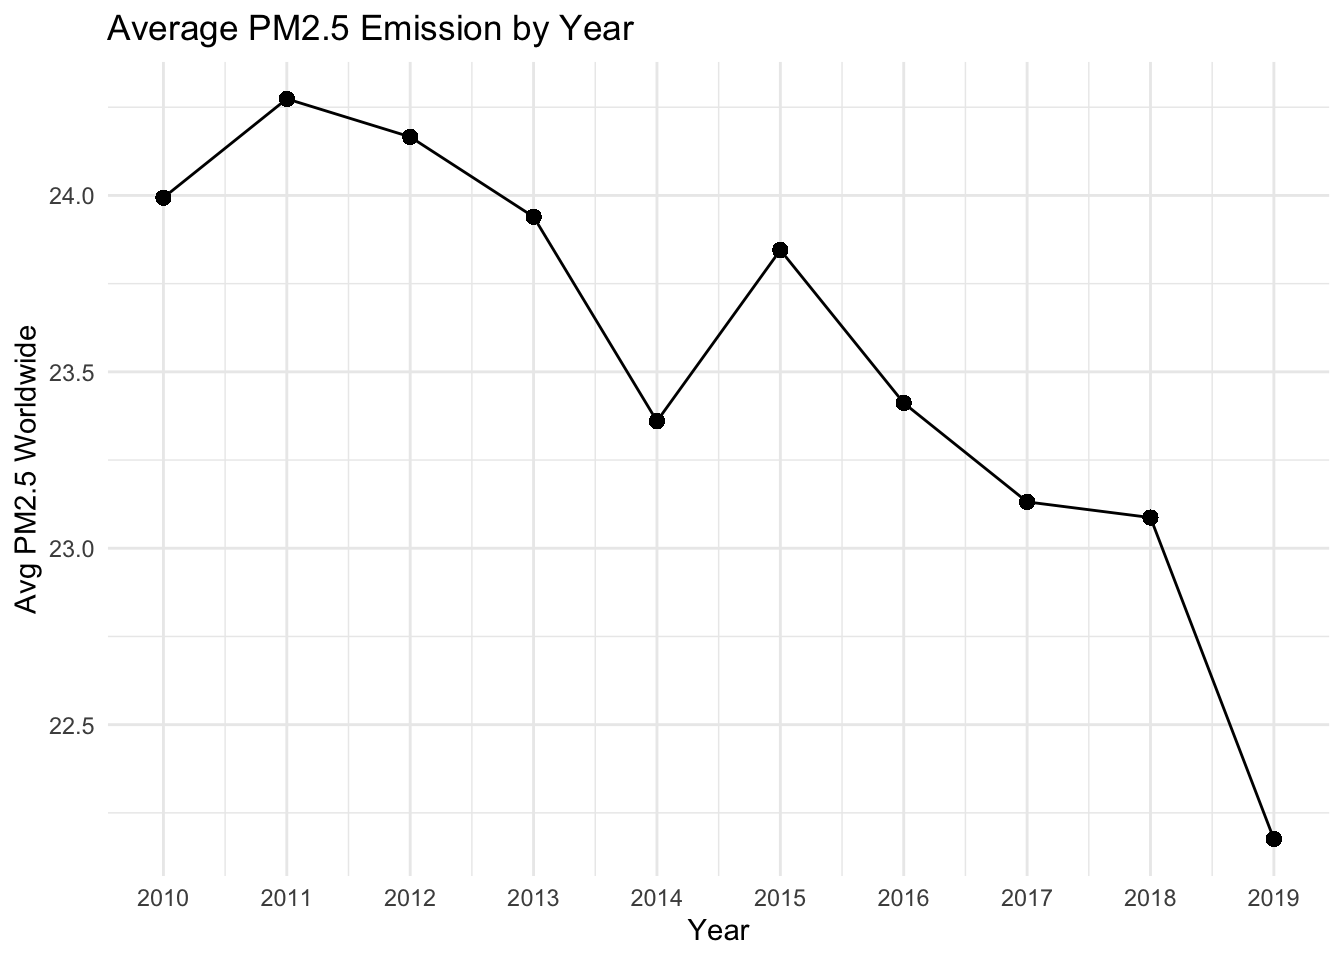
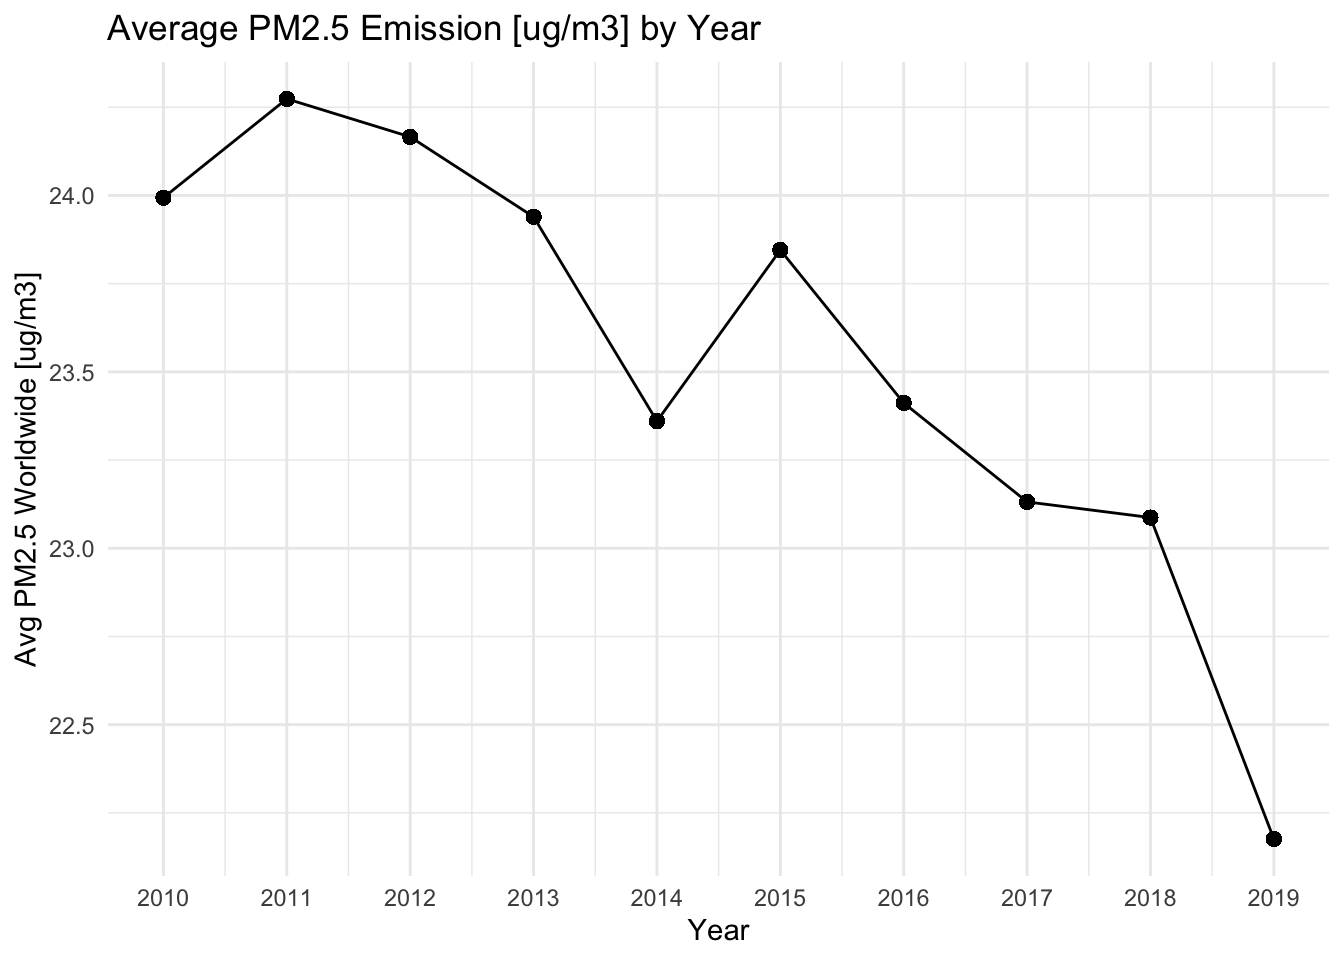
.

Changed region(s): [[0.0, 0.2812, 0.0312, 0.6875], [0.375, 0.0, 0.5625, 0.0625]]

diff --git a/docs/results.html b/docs/results.html
@@ -235,9 +235,9 @@ Attaching package: 'dplyr'</code></pre>
 <span id="cb6-6"><a href="#cb6-6" aria-hidden="true" tabindex="-1"></a>  <span class="fu">geom_line</span>() <span class="sc">+</span></span>
 <span id="cb6-7"><a href="#cb6-7" aria-hidden="true" tabindex="-1"></a>  <span class="fu">geom_point</span>(<span class="at">size =</span> <span class="dv">2</span>) <span class="sc">+</span></span>
 <span id="cb6-8"><a href="#cb6-8" aria-hidden="true" tabindex="-1"></a>  <span class="fu">theme_minimal</span>() <span class="sc">+</span></span>
-<span id="cb6-9"><a href="#cb6-9" aria-hidden="true" tabindex="-1"></a>  <span class="fu">labs</span>(<span class="at">title =</span> <span class="st">"Average PM2.5 Emission by Year"</span>,</span>
+<span id="cb6-9"><a href="#cb6-9" aria-hidden="true" tabindex="-1"></a>  <span class="fu">labs</span>(<span class="at">title =</span> <span class="st">"Average PM2.5 Emission [ug/m3] by Year"</span>,</span>
 <span id="cb6-10"><a href="#cb6-10" aria-hidden="true" tabindex="-1"></a>       <span class="at">x =</span> <span class="st">"Year"</span>,</span>
-<span id="cb6-11"><a href="#cb6-11" aria-hidden="true" tabindex="-1"></a>       <span class="at">y =</span> <span class="st">"Avg PM2.5 Worldwide"</span>) <span class="sc">+</span></span>
+<span id="cb6-11"><a href="#cb6-11" aria-hidden="true" tabindex="-1"></a>       <span class="at">y =</span> <span class="st">"Avg PM2.5 Worldwide [ug/m3]"</span>) <span class="sc">+</span></span>
 <span id="cb6-12"><a href="#cb6-12" aria-hidden="true" tabindex="-1"></a>   <span class="fu">scale_x_continuous</span>(<span class="at">breaks =</span> <span class="fu">seq</span>(<span class="fu">min</span>(data<span class="sc">$</span>Period), <span class="fu">max</span>(data<span class="sc">$</span>Period), <span class="at">by =</span> <span class="dv">1</span>))</span></code><button title="Copy to Clipboard" class="code-copy-button"><i class="bi"></i></button></pre></div>
 </details>
 <div class="cell-output-display">
@@ -260,9 +260,9 @@ Attaching package: 'dplyr'</code></pre>
 <span id="cb7-7"><a href="#cb7-7" aria-hidden="true" tabindex="-1"></a>  <span class="fu">geom_line</span>() <span class="sc">+</span></span>
 <span id="cb7-8"><a href="#cb7-8" aria-hidden="true" tabindex="-1"></a>  <span class="fu">geom_point</span>(<span class="at">size =</span> <span class="dv">1</span>) <span class="sc">+</span></span>
 <span id="cb7-9"><a href="#cb7-9" aria-hidden="true" tabindex="-1"></a>  <span class="fu">theme_minimal</span>() <span class="sc">+</span></span>
-<span id="cb7-10"><a href="#cb7-10" aria-hidden="true" tabindex="-1"></a>  <span class="fu">labs</span>(<span class="at">title =</span> <span class="st">"Average PM2.5 Emission by Year"</span>,</span>
+<span id="cb7-10"><a href="#cb7-10" aria-hidden="true" tabindex="-1"></a>  <span class="fu">labs</span>(<span class="at">title =</span> <span class="st">"Average PM2.5 Emission [ug/m3] by Year"</span>,</span>
 <span id="cb7-11"><a href="#cb7-11" aria-hidden="true" tabindex="-1"></a>       <span class="at">x =</span> <span class="st">"Year"</span>,</span>
-<span id="cb7-12"><a href="#cb7-12" aria-hidden="true" tabindex="-1"></a>       <span class="at">y =</span> <span class="st">"Avg PM2.5 per Continent"</span>) <span class="sc">+</span></span>
+<span id="cb7-12"><a href="#cb7-12" aria-hidden="true" tabindex="-1"></a>       <span class="at">y =</span> <span class="st">"Avg PM2.5 Concentration [ug/m3] per Continent"</span>) <span class="sc">+</span></span>
 <span id="cb7-13"><a href="#cb7-13" aria-hidden="true" tabindex="-1"></a>   <span class="fu">scale_x_continuous</span>(<span class="at">breaks =</span> <span class="fu">seq</span>(<span class="fu">min</span>(data<span class="sc">$</span>Period), <span class="fu">max</span>(data<span class="sc">$</span>Period), <span class="at">by =</span> <span class="dv">1</span>))</span></code><button title="Copy to Clipboard" class="code-copy-button"><i class="bi"></i></button></pre></div>
 </details>
 <div class="cell-output-display">
@@ -278,9 +278,9 @@ Attaching package: 'dplyr'</code></pre>
 <span id="cb8-3"><a href="#cb8-3" aria-hidden="true" tabindex="-1"></a>  <span class="fu">stat_summary</span>(<span class="at">fun =</span> mean, <span class="at">geom =</span> <span class="st">"point"</span>, <span class="at">shape =</span> <span class="dv">20</span>, <span class="at">size =</span> <span class="dv">1</span>, <span class="at">color =</span> <span class="st">"blue"</span>) <span class="sc">+</span></span>
 <span id="cb8-4"><a href="#cb8-4" aria-hidden="true" tabindex="-1"></a>  <span class="fu">facet_wrap</span>(<span class="sc">~</span> ParentLocation) <span class="sc">+</span> </span>
 <span id="cb8-5"><a href="#cb8-5" aria-hidden="true" tabindex="-1"></a>  <span class="fu">theme_minimal</span>() <span class="sc">+</span></span>
-<span id="cb8-6"><a href="#cb8-6" aria-hidden="true" tabindex="-1"></a>  <span class="fu">labs</span>(<span class="at">title =</span> <span class="st">"PM2.5 Emission"</span>,</span>
+<span id="cb8-6"><a href="#cb8-6" aria-hidden="true" tabindex="-1"></a>  <span class="fu">labs</span>(<span class="at">title =</span> <span class="st">"PM2.5 Emission [ug/m3]"</span>,</span>
 <span id="cb8-7"><a href="#cb8-7" aria-hidden="true" tabindex="-1"></a>       <span class="at">x =</span> <span class="st">"Year"</span>,</span>
-<span id="cb8-8"><a href="#cb8-8" aria-hidden="true" tabindex="-1"></a>       <span class="at">y =</span> <span class="st">"PM2.5 Range per Continent"</span>)</span></code><button title="Copy to Clipboard" class="code-copy-button"><i class="bi"></i></button></pre></div>
+<span id="cb8-8"><a href="#cb8-8" aria-hidden="true" tabindex="-1"></a>       <span class="at">y =</span> <span class="st">"PM2.5 [ug/m3] Range per Continent"</span>)</span></code><button title="Copy to Clipboard" class="code-copy-button"><i class="bi"></i></button></pre></div>
 </details>
 <div class="cell-output cell-output-stderr">
 <pre><code>Warning: Continuous x aesthetic
@@ -292,7 +292,8 @@ Attaching package: 'dplyr'</code></pre>
 </div>
 <p>The boxplots further shows that Europe has the largest variation across years, which corresponds to our observation for previous plot, while Africa and Eastern Mediterranean has a stable PM2.5 since the length of boxplot is small.</p>
 <ol start="3" type="1">
-<li>Continent Correlation</li>
+<li><p>Continent Correlation</p>
+<p>This explores the relationship between country and PM2.5 level.</p></li>
 </ol>
 <div class="cell">
 <details>
@@ -315,7 +316,7 @@ Attaching package: 'dplyr'</code></pre>
 <span id="cb10-16"><a href="#cb10-16" aria-hidden="true" tabindex="-1"></a>  <span class="fu">coord_flip</span>() <span class="sc">+</span></span>
 <span id="cb10-17"><a href="#cb10-17" aria-hidden="true" tabindex="-1"></a>  <span class="fu">labs</span>(<span class="at">title =</span> <span class="st">"Countries with the Top 10 Highest Avg PM2.5"</span>,</span>
 <span id="cb10-18"><a href="#cb10-18" aria-hidden="true" tabindex="-1"></a>       <span class="at">x =</span> <span class="st">"Country"</span>,</span>
-<span id="cb10-19"><a href="#cb10-19" aria-hidden="true" tabindex="-1"></a>       <span class="at">y =</span> <span class="st">"Average PM2.5"</span>) <span class="sc">+</span></span>
+<span id="cb10-19"><a href="#cb10-19" aria-hidden="true" tabindex="-1"></a>       <span class="at">y =</span> <span class="st">"Average PM2.5 [ug/m3]"</span>) <span class="sc">+</span></span>
 <span id="cb10-20"><a href="#cb10-20" aria-hidden="true" tabindex="-1"></a>  <span class="fu">theme_minimal</span>()</span></code><button title="Copy to Clipboard" class="code-copy-button"><i class="bi"></i></button></pre></div>
 </details>
 <div class="cell-output-display">
@@ -330,13 +331,17 @@ Attaching package: 'dplyr'</code></pre>
 <span id="cb11-3"><a href="#cb11-3" aria-hidden="true" tabindex="-1"></a>  <span class="fu">coord_flip</span>() <span class="sc">+</span></span>
 <span id="cb11-4"><a href="#cb11-4" aria-hidden="true" tabindex="-1"></a>  <span class="fu">labs</span>(<span class="at">title =</span> <span class="st">"Countries with the Top 10 Highest Avg PM2.5"</span>,</span>
 <span id="cb11-5"><a href="#cb11-5" aria-hidden="true" tabindex="-1"></a>       <span class="at">x =</span> <span class="st">"Country"</span>,</span>
-<span id="cb11-6"><a href="#cb11-6" aria-hidden="true" tabindex="-1"></a>       <span class="at">y =</span> <span class="st">"Average PM2.5"</span>) <span class="sc">+</span></span>
+<span id="cb11-6"><a href="#cb11-6" aria-hidden="true" tabindex="-1"></a>       <span class="at">y =</span> <span class="st">"Average PM2.5 [ug/m3]"</span>) <span class="sc">+</span></span>
 <span id="cb11-7"><a href="#cb11-7" aria-hidden="true" tabindex="-1"></a>  <span class="fu">theme_minimal</span>()</span></code><button title="Copy to Clipboard" class="code-copy-button"><i class="bi"></i></button></pre></div>
 </details>
 <div class="cell-output-display">
 <p><img src="results_files/figure-html/unnamed-chunk-6-1.png" class="img-fluid" width="672"></p>
 </div>
 </div>
+<ol start="4" type="1">
+<li>Location type</li>
+</ol>
+<p>This part, let’s explore the relationship between the 4 main resident types, Town, Rural, Urban, and Cities, and PM2.5 level.</p>
 <div class="cell">
 <details>
 <summary>Code</summary>
@@ -345,41 +350,18 @@ Attaching package: 'dplyr'</code></pre>
 <span id="cb12-3"><a href="#cb12-3" aria-hidden="true" tabindex="-1"></a>  <span class="fu">mutate</span>(<span class="at">LotyE =</span> <span class="fu">mean</span>(FactValueNumeric)) <span class="sc">%&gt;%</span></span>
 <span id="cb12-4"><a href="#cb12-4" aria-hidden="true" tabindex="-1"></a>  <span class="fu">ungroup</span>()</span>
 <span id="cb12-5"><a href="#cb12-5" aria-hidden="true" tabindex="-1"></a></span>
-<span id="cb12-6"><a href="#cb12-6" aria-hidden="true" tabindex="-1"></a>data</span></code><button title="Copy to Clipboard" class="code-copy-button"><i class="bi"></i></button></pre></div>
-</details>
-<div class="cell-output cell-output-stdout">
-<pre><code># A tibble: 9,450 × 18
-       X ParentLocationCode ParentLocation SpatialDimValueCode Location   Period
-   &lt;int&gt; &lt;chr&gt;              &lt;chr&gt;          &lt;chr&gt;               &lt;chr&gt;       &lt;int&gt;
- 1     1 AFR                Africa         KEN                 Kenya        2019
- 2     2 AMR                Americas       TTO                 Trinidad …   2019
- 3     3 EUR                Europe         GBR                 United Ki…   2019
- 4     4 AMR                Americas       GRD                 Grenada      2019
- 5     5 AMR                Americas       BRA                 Brazil       2019
- 6     6 EUR                Europe         DNK                 Denmark      2019
- 7     7 EUR                Europe         RUS                 Russian F…   2019
- 8     8 EUR                Europe         ESP                 Spain        2019
- 9     9 AMR                Americas       GRD                 Grenada      2019
-10    10 AMR                Americas       GRD                 Grenada      2019
-# ℹ 9,440 more rows
-# ℹ 12 more variables: IsLatestYear &lt;lgl&gt;, Dim1 &lt;chr&gt;, Dim1ValueCode &lt;chr&gt;,
-#   FactValueNumeric &lt;dbl&gt;, FactValueNumericLow &lt;dbl&gt;,
-#   FactValueNumericHigh &lt;dbl&gt;, Value &lt;chr&gt;, YearlyE &lt;dbl&gt;, YearlyContE &lt;dbl&gt;,
-#   ContE &lt;dbl&gt;, LocE &lt;dbl&gt;, LotyE &lt;dbl&gt;</code></pre>
-</div>
-<details>
-<summary>Code</summary>
-<div class="sourceCode cell-code" id="cb14"><pre class="sourceCode r code-with-copy"><code class="sourceCode r"><span id="cb14-1"><a href="#cb14-1" aria-hidden="true" tabindex="-1"></a><span class="fu">ggplot</span>(data, <span class="fu">aes</span>(<span class="at">x =</span> <span class="fu">reorder</span>(Dim1, LotyE), <span class="at">y =</span> LotyE<span class="sc">/</span><span class="dv">945</span>)) <span class="sc">+</span></span>
-<span id="cb14-2"><a href="#cb14-2" aria-hidden="true" tabindex="-1"></a>  <span class="fu">geom_bar</span>(<span class="at">stat =</span> <span class="st">"identity"</span>) <span class="sc">+</span></span>
-<span id="cb14-3"><a href="#cb14-3" aria-hidden="true" tabindex="-1"></a>  <span class="fu">labs</span>(<span class="at">title =</span> <span class="st">"Avg PM2.5 level for different location type"</span>,</span>
-<span id="cb14-4"><a href="#cb14-4" aria-hidden="true" tabindex="-1"></a>       <span class="at">x =</span> <span class="st">"Location Type"</span>,</span>
-<span id="cb14-5"><a href="#cb14-5" aria-hidden="true" tabindex="-1"></a>       <span class="at">y =</span> <span class="st">"Average PM2.5"</span>) <span class="sc">+</span></span>
-<span id="cb14-6"><a href="#cb14-6" aria-hidden="true" tabindex="-1"></a>  <span class="fu">theme_minimal</span>()</span></code><button title="Copy to Clipboard" class="code-copy-button"><i class="bi"></i></button></pre></div>
+<span id="cb12-6"><a href="#cb12-6" aria-hidden="true" tabindex="-1"></a><span class="fu">ggplot</span>(data, <span class="fu">aes</span>(<span class="at">x =</span> <span class="fu">reorder</span>(Dim1, LotyE), <span class="at">y =</span> LotyE<span class="sc">/</span><span class="dv">945</span>)) <span class="sc">+</span></span>
+<span id="cb12-7"><a href="#cb12-7" aria-hidden="true" tabindex="-1"></a>  <span class="fu">geom_bar</span>(<span class="at">stat =</span> <span class="st">"identity"</span>) <span class="sc">+</span></span>
+<span id="cb12-8"><a href="#cb12-8" aria-hidden="true" tabindex="-1"></a>  <span class="fu">labs</span>(<span class="at">title =</span> <span class="st">"Avg PM2.5 level [ug/m3] for different location type"</span>,</span>
+<span id="cb12-9"><a href="#cb12-9" aria-hidden="true" tabindex="-1"></a>       <span class="at">x =</span> <span class="st">"Location Type"</span>,</span>
+<span id="cb12-10"><a href="#cb12-10" aria-hidden="true" tabindex="-1"></a>       <span class="at">y =</span> <span class="st">"Average PM2.5 [ug/m3]"</span>) <span class="sc">+</span></span>
+<span id="cb12-11"><a href="#cb12-11" aria-hidden="true" tabindex="-1"></a>  <span class="fu">theme_minimal</span>()</span></code><button title="Copy to Clipboard" class="code-copy-button"><i class="bi"></i></button></pre></div>
 </details>
 <div class="cell-output-display">
 <p><img src="results_files/figure-html/unnamed-chunk-7-1.png" class="img-fluid" width="672"></p>
 </div>
 </div>
+<p>The result are pretty close but there is a clear evidence Rural and Towns, those places with a smaller population density tend to have a better air quality.</p>
 
 
 

diff --git a/docs/data.html b/docs/data.html
@@ -206,7 +206,7 @@ pre > code.sourceCode > span > a:first-child::before { text-decoration: underlin
 <h2 data-number="2.1" class="anchored" data-anchor-id="technical-description"><span class="header-section-number">2.1</span> Technical description</h2>
 <p>The dataset we use is called modeled exposure to particulate matter air pollution, that aggregates the concentration of the fine particulate matter (PM 2.5) in 194 over the world. In particular, it includes the annual concentration of PM 2.5 in 194 countries, with breakdown for urban and rural areas. The dataset is authored by the World Health Organization (WHO). In general, to obtain estimates of PM 2.5 levels, the concentration of PM 2.5 is measured from fixed-site monitors located within metropolitan areas. The value of PM 2.5 in a given area can be obtained by averaging the measurements of monitors in this area.</p>
 <p>Our dataset includes the average annual PM 2.5 concentration on 194 states from 2010 to 2019. Apart from the average value over the country, the dataset also records the averages on four different area types: urban, rural, cities and towns. The dataset consists of 34 variables in total. Not all of them will be valuable to us, but relevant features include country, location (continent), period (year), area type (detailed below), and value (PM 2.5 concentration). There are 9450 observations, each recording the average annual concentration of PM 2.5 for a specific area type (urban, rural, cities, towns, total) of one of the 194 states in the world.</p>
-<p>We obtain the data from the WHO official website. A CSV file can be downloaded from <a href="https://www.who.int/data/gho/data/themes/air-pollution/modelled-exposure-of-pm-air-pollution-exposure">this link</a>. The file is ready-to-use, requiring only a “read.csv” function to be loaded into RStudio. We will perform data cleaning (eliminating redundant variables and dealing with NAs) and analysis using this file.</p>
+<p>We obtain the data from the WHO official website. A CSV file can be downloaded from <a href="https://www.who.int/data/gho/data/themes/air-pollution/modelled-exposure-of-pm-air-pollution-exposure">here</a>. The file is ready-to-use, requiring only a “read.csv” function to be loaded into RStudio. We will perform data cleaning (eliminating redundant variables and dealing with NAs) and analysis using this file.</p>
 </section>
 <section id="research-plan" class="level2" data-number="2.2">
 <h2 data-number="2.2" class="anchored" data-anchor-id="research-plan"><span class="header-section-number">2.2</span> Research plan</h2>
@@ -296,7 +296,8 @@ dttm  (1): DateModified
 <span id="cb8-6"><a href="#cb8-6" aria-hidden="true" tabindex="-1"></a><span class="co"># plot the number of distinct values per column in our dataset</span></span>
 <span id="cb8-7"><a href="#cb8-7" aria-hidden="true" tabindex="-1"></a><span class="fu">ggplot</span>(long_data, <span class="fu">aes</span>(<span class="at">x =</span> ColumnName, <span class="at">y =</span> DistinctCount)) <span class="sc">+</span></span>
 <span id="cb8-8"><a href="#cb8-8" aria-hidden="true" tabindex="-1"></a>  <span class="fu">geom_bar</span>(<span class="at">stat =</span> <span class="st">"identity"</span>) <span class="sc">+</span></span>
-<span id="cb8-9"><a href="#cb8-9" aria-hidden="true" tabindex="-1"></a>  <span class="fu">labs</span>(<span class="at">x =</span> <span class="st">"Column Name"</span>, <span class="at">y =</span> <span class="st">"# of distinct values"</span>, <span class="at">title =</span> <span class="st">"Check distinct values"</span>)</span></code><button title="Copy to Clipboard" class="code-copy-button"><i class="bi"></i></button></pre></div>
+<span id="cb8-9"><a href="#cb8-9" aria-hidden="true" tabindex="-1"></a>  <span class="fu">coord_flip</span>()<span class="sc">+</span></span>
+<span id="cb8-10"><a href="#cb8-10" aria-hidden="true" tabindex="-1"></a>  <span class="fu">labs</span>(<span class="at">x =</span> <span class="st">"Column Name"</span>, <span class="at">y =</span> <span class="st">"# of distinct values"</span>, <span class="at">title =</span> <span class="st">"Check distinct values"</span>)</span></code><button title="Copy to Clipboard" class="code-copy-button"><i class="bi"></i></button></pre></div>
 </details>
 <div class="cell-output-display">
 <p><img src="data_files/figure-html/unnamed-chunk-2-1.png" class="img-fluid" width="672"></p>
@@ -307,9 +308,8 @@ dttm  (1): DateModified
 <details>
 <summary>Code</summary>
 <div class="sourceCode cell-code" id="cb9"><pre class="sourceCode r code-with-copy"><code class="sourceCode r"><span id="cb9-1"><a href="#cb9-1" aria-hidden="true" tabindex="-1"></a><span class="co"># check insignificant data</span></span>
-<span id="cb9-2"><a href="#cb9-2" aria-hidden="true" tabindex="-1"></a>insignificant_data <span class="ot">&lt;-</span> long_data <span class="sc">%&gt;%</span> </span>
-<span id="cb9-3"><a href="#cb9-3" aria-hidden="true" tabindex="-1"></a>                               <span class="fu">filter</span>(DistinctCount <span class="sc">&lt;=</span> <span class="dv">1</span>)</span>
-<span id="cb9-4"><a href="#cb9-4" aria-hidden="true" tabindex="-1"></a>insignificant_data</span></code><button title="Copy to Clipboard" class="code-copy-button"><i class="bi"></i></button></pre></div>
+<span id="cb9-2"><a href="#cb9-2" aria-hidden="true" tabindex="-1"></a>insignificant_data <span class="ot">&lt;-</span> long_data <span class="sc">%&gt;%</span> <span class="fu">filter</span>(DistinctCount <span class="sc">&lt;=</span> <span class="dv">1</span>)</span>
+<span id="cb9-3"><a href="#cb9-3" aria-hidden="true" tabindex="-1"></a>insignificant_data</span></code><button title="Copy to Clipboard" class="code-copy-button"><i class="bi"></i></button></pre></div>
 </details>
 <div class="cell-output cell-output-stdout">
 <pre><code># A tibble: 22 × 2
@@ -374,12 +374,69 @@ dttm  (1): DateModified
                    0                    0                    0 </code></pre>
 </div>
 </div>
+<p>Missing pattern analysis for numeric columns (no missing data).</p>
+<div class="cell">
+<details>
+<summary>Code</summary>
+<div class="sourceCode cell-code" id="cb15"><pre class="sourceCode r code-with-copy"><code class="sourceCode r"><span id="cb15-1"><a href="#cb15-1" aria-hidden="true" tabindex="-1"></a><span class="fu">library</span>(mi)</span></code><button title="Copy to Clipboard" class="code-copy-button"><i class="bi"></i></button></pre></div>
+</details>
+<div class="cell-output cell-output-stderr">
+<pre><code>Loading required package: Matrix</code></pre>
+</div>
+<div class="cell-output cell-output-stderr">
+<pre><code>
+Attaching package: 'Matrix'</code></pre>
+</div>
+<div class="cell-output cell-output-stderr">
+<pre><code>The following objects are masked from 'package:tidyr':
+
+    expand, pack, unpack</code></pre>
+</div>
+<div class="cell-output cell-output-stderr">
+<pre><code>Loading required package: stats4</code></pre>
+</div>
+<div class="cell-output cell-output-stderr">
+<pre><code>mi (Version 1.1, packaged: 2022-06-05 05:31:15 UTC; ben)</code></pre>
+</div>
+<div class="cell-output cell-output-stderr">
+<pre><code>mi  Copyright (C) 2008, 2009, 2010, 2011, 2012, 2013, 2014, 2015 Trustees of Columbia University</code></pre>
+</div>
+<div class="cell-output cell-output-stderr">
+<pre><code>This program comes with ABSOLUTELY NO WARRANTY.</code></pre>
+</div>
+<div class="cell-output cell-output-stderr">
+<pre><code>This is free software, and you are welcome to redistribute it</code></pre>
+</div>
+<div class="cell-output cell-output-stderr">
+<pre><code>under the General Public License version 2 or later.</code></pre>
+</div>
+<div class="cell-output cell-output-stderr">
+<pre><code>Execute RShowDoc('COPYING') for details.</code></pre>
+</div>
+<div class="cell-output cell-output-stderr">
+<pre><code>
+Attaching package: 'mi'</code></pre>
+</div>
+<div class="cell-output cell-output-stderr">
+<pre><code>The following object is masked from 'package:tidyr':
+
+    complete</code></pre>
+</div>
+<details>
+<summary>Code</summary>
+<div class="sourceCode cell-code" id="cb28"><pre class="sourceCode r code-with-copy"><code class="sourceCode r"><span id="cb28-1"><a href="#cb28-1" aria-hidden="true" tabindex="-1"></a>x <span class="ot">&lt;-</span> <span class="fu">missing_data.frame</span>(<span class="fu">as.data.frame</span>(<span class="fu">subset</span>(data, <span class="at">select=</span><span class="fu">c</span>(FactValueNumeric, FactValueNumericHigh, FactValueNumericLow))))</span>
+<span id="cb28-2"><a href="#cb28-2" aria-hidden="true" tabindex="-1"></a><span class="fu">image</span>(x)</span></code><button title="Copy to Clipboard" class="code-copy-button"><i class="bi"></i></button></pre></div>
+</details>
+<div class="cell-output-display">
+<p><img src="data_files/figure-html/unnamed-chunk-5-1.png" class="img-fluid" width="672"></p>
+</div>
+</div>
 <p>We conclude that there is no missing value in the data we selected.</p>
 <div class="cell">
 <details>
 <summary>Code</summary>
-<div class="sourceCode cell-code" id="cb15"><pre class="sourceCode r code-with-copy"><code class="sourceCode r"><span id="cb15-1"><a href="#cb15-1" aria-hidden="true" tabindex="-1"></a><span class="co"># Write data to csv</span></span>
-<span id="cb15-2"><a href="#cb15-2" aria-hidden="true" tabindex="-1"></a><span class="fu">write.csv</span>(selected_data, <span class="at">file =</span> <span class="st">"selected_data.csv"</span>)</span></code><button title="Copy to Clipboard" class="code-copy-button"><i class="bi"></i></button></pre></div>
+<div class="sourceCode cell-code" id="cb29"><pre class="sourceCode r code-with-copy"><code class="sourceCode r"><span id="cb29-1"><a href="#cb29-1" aria-hidden="true" tabindex="-1"></a><span class="co"># Write data to csv</span></span>
+<span id="cb29-2"><a href="#cb29-2" aria-hidden="true" tabindex="-1"></a><span class="fu">write.csv</span>(selected_data, <span class="at">file =</span> <span class="st">"selected_data.csv"</span>)</span></code><button title="Copy to Clipboard" class="code-copy-button"><i class="bi"></i></button></pre></div>
 </details>
 </div>
 
